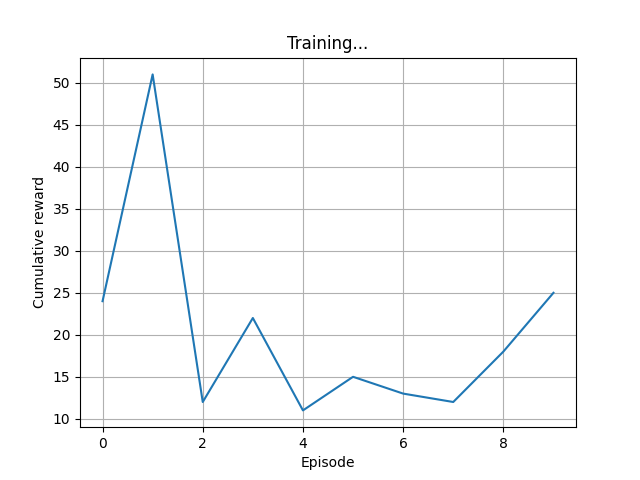
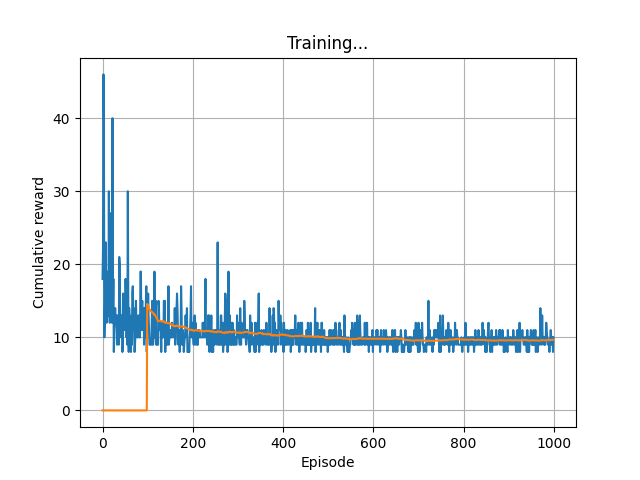
Ex4: task 2a plot updated

diff --git a/exercise-4/rbf_agent.py b/exercise-4/rbf_agent.py
@@ -49,8 +49,8 @@ class Agent(object):
         if len(state.shape) == 1:
             state = state.reshape(1, -1)
         # Task 1a: DONE: Use (s, abs(s)) as features
-        # scaled_state = self.scaler.transform(state)
-        # return np.array([np.array([sample, np.abs(sample)]).flatten() for sample in scaled_state])
+        scaled_state = self.scaler.transform(state)
+        return np.array([np.array([sample, np.abs(sample)]).flatten() for sample in scaled_state])
 
         # Task 1b: RBF features
         return self.featurizer.transform(self.scaler.transform(state))

diff --git a/exercise-4/main.py b/exercise-4/main.py
@@ -90,7 +90,7 @@ for ep in range(num_episodes):
     #               "weights_%s_%d.mdl" % (env_name, ep))
 
 plot_rewards(cumulative_rewards)
-plt.savefig("plots/task-2b.png")
+plt.savefig("plots/task-2a.png")
 print('Complete')
 plt.ioff()
 plt.show()
@@ -144,5 +144,5 @@ for i in range(len(x_labels)):
 
 ax.set_title(f"Optimal action (Policy) for ẋ={v} and θ˙={av}")
 fig.tight_layout()
-plt.savefig("plots/task-3.png")
+# plt.savefig("plots/task-3.png")
 plt.show()
